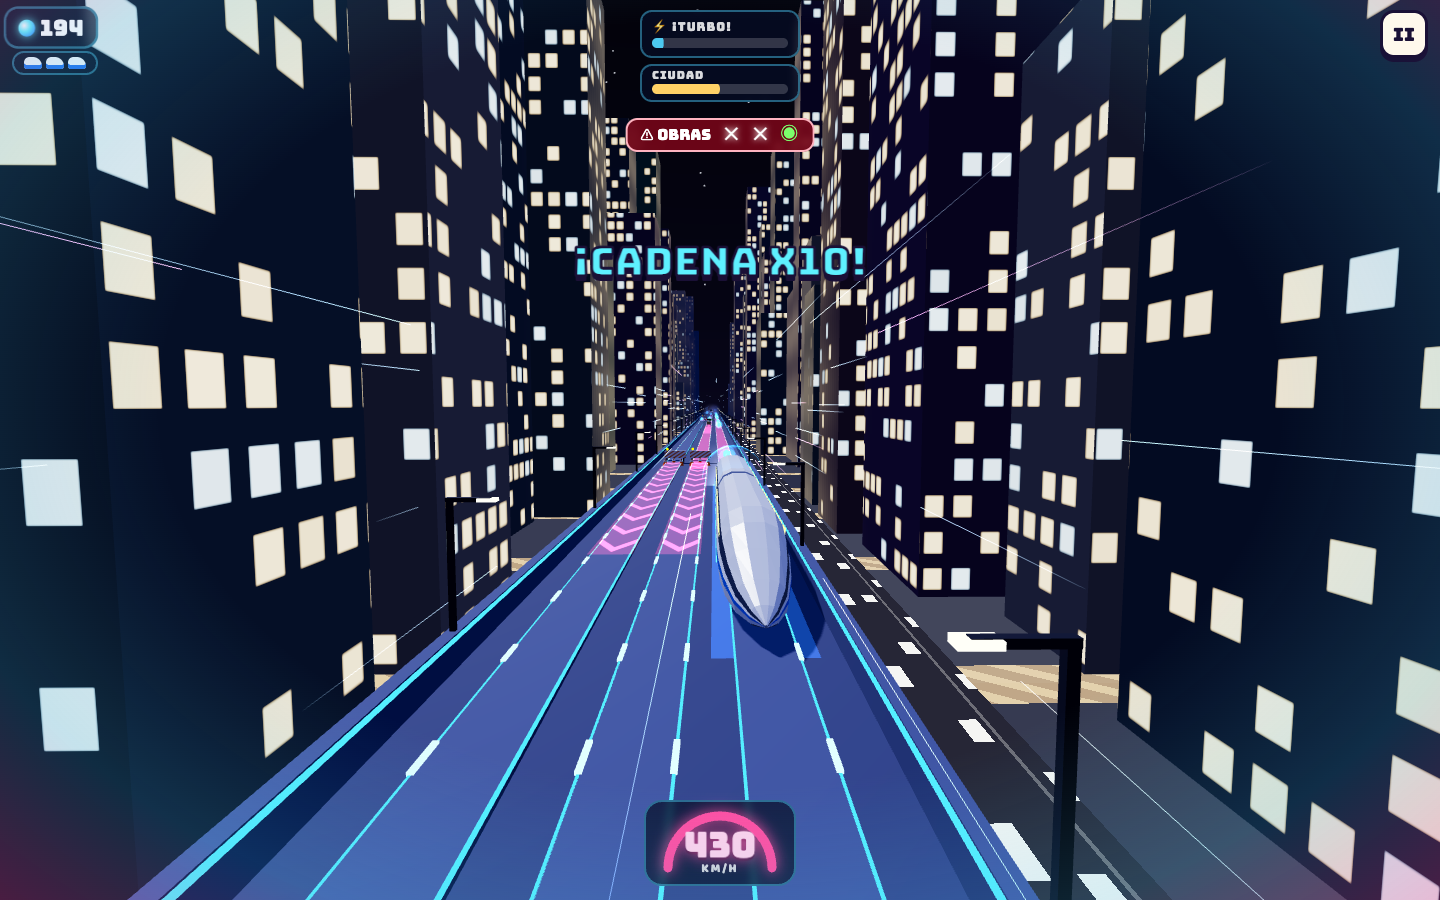
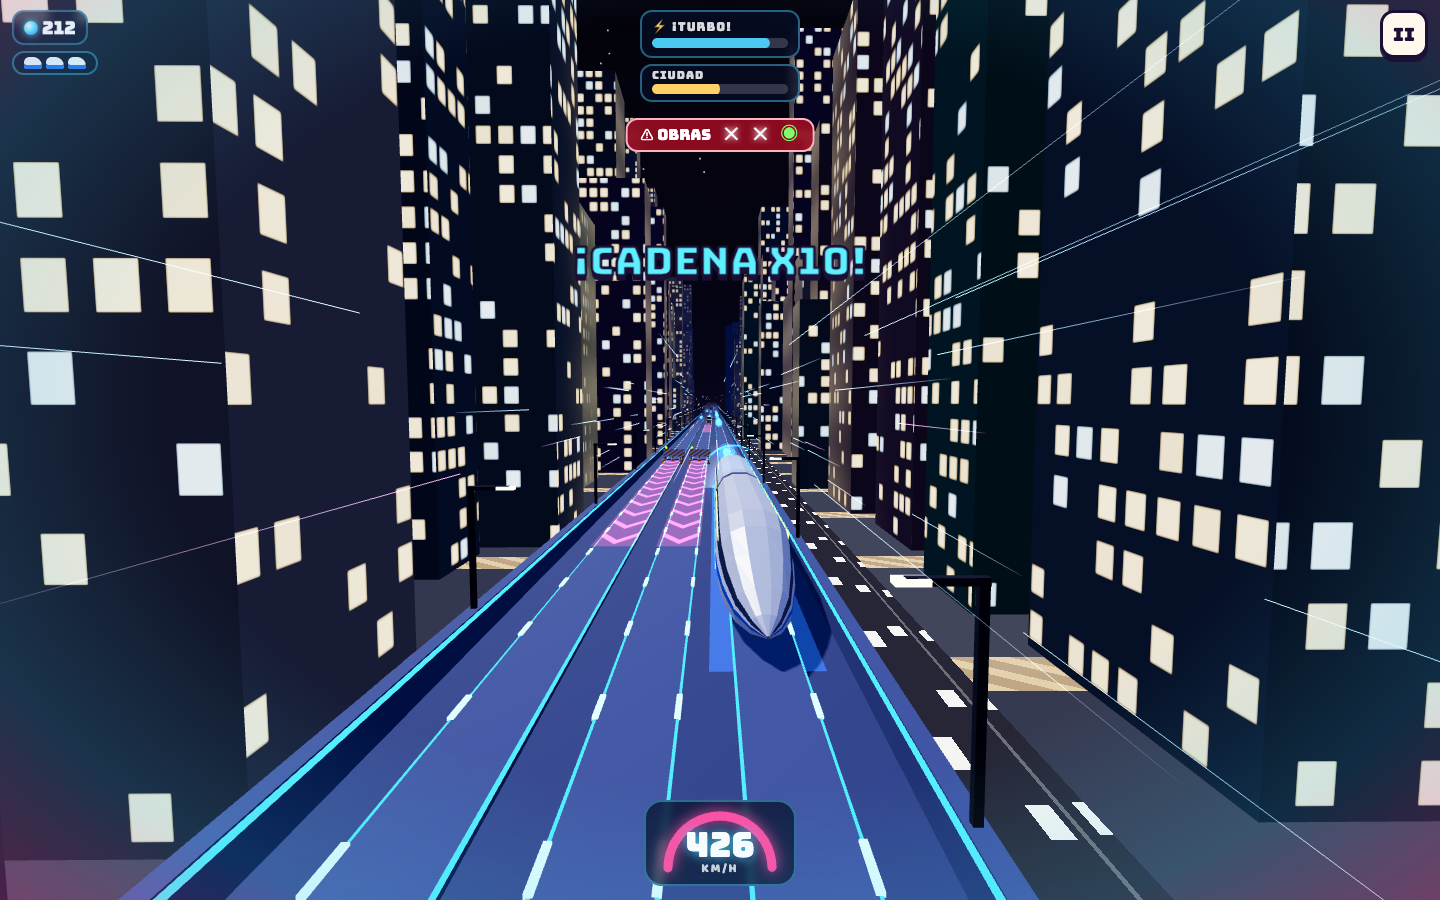
Shanghái ronda 2: doble cambio, último tramo con orbes dorados, turbo discreto y puntuación normalizada

diff --git a/src/stages/shanghai/index.js b/src/stages/shanghai/index.js
@@ -13,7 +13,7 @@ import { makeHum } from './sonido.js';
 
 const KMH = 6;                 // 1 m/s del juego = 6 km/h en el velocímetro
 const BRAKE_AT = Z.L - 220;    // aquí empieza a frenar solo en la estación
-const ORB_E = 1 / 18;          // energía por orbe
+const ORB_E = 1 / 26;          // energía por orbe
 const TRAMOS = [[0, 'CAMPO'], [Z.CITY, 'CIUDAD'], [Z.RIVER, 'RÍO'], [Z.BUND - 100, 'EL BUND']];
 const NOMBRE = { tren: '¡TREN DE FRENTE!', obras: 'OBRAS', puerta: 'PUERTA', dron: 'DRON' };
 
@@ -33,7 +33,7 @@ export default {
     { who: 0, text: '¡430 km/h! Este tren va más rápido que el wifi del hostal.' },
     { who: 1, text: 'Los fuegos del Bund empiezan en dos minutos. Ni uno más, {0}.' },
     { who: 'Maquinista Wei', text: 'Si viene un mercancías de frente, cambiad de vía. Yo lo hago siempre.' },
-    { who: 'Maquinista Wei', text: 'Coged energía azul y pulsad TURBO: el escudo aguanta los golpes.' },
+    { who: 'Maquinista Wei', text: 'Coged energía azul y pulsad TURBO: el escudo aguanta un golpe.' },
     { who: 0, text: '¿Y si chocamos?' },
     { who: 'Maquinista Wei', text: 'Frenazo en seco. Tres frenazos y los fuegos los veis por la tele.' },
   ],
@@ -94,6 +94,7 @@ export default {
     const etapa = { id: 'shanghai' };
     window.__ruta = window.__ruta || {};
     window.__ruta.etapa = etapa;
+    window.__ruta.shPlan = () => ({ hazards: hazards.map((h) => ({ t: h.type, s: h.s, l: h.lanes, len: h.len })), orbs: orbs.map((o) => ({ s: o.s, l: o.lane, v: o.v })) });
 
     // cámara de la intro: delante del morro, mirando a la cabina
     camera.position.set(6, DECK + 3, -10);
@@ -196,10 +197,10 @@ export default {
     function collect(o) {
       o.got = true; st.orbs += o.v;
       if (o.gold) ctx.hud.pop('orbes');
-      st.energy = Math.min(1, st.energy + (st.turbo ? ORB_E * 0.5 : ORB_E));
+      if (!st.turbo) st.energy = Math.min(1, st.energy + ORB_E);
       st.combo = st.t - st.comboT < 0.7 ? st.combo + 1 : 1; st.comboT = st.t;
       audio.sfx('coin', { pitch: (o.gold ? 1.3 : 1) + Math.min(14, st.combo) * 0.05, vol: o.gold ? 0.8 : 0.55 });
-      sparks.emit(10, tmpV.set(LANES[o.lane], DECK + 1.7, -o.s), { colors: ['#5ef0ff', '#ffffff', '#2fa8ff'], vel: { x: 0, y: 2, z: -st.v * 0.85 }, velSpread: 5, life: 0.5, gravity: 0, size: 0.4 });
+      sparks.emit(10, tmpV.set(LANES[o.lane], DECK + 1.7, -o.s), { colors: o.gold ? ['#ffd166', '#ffffff', '#ffb000'] : ['#5ef0ff', '#ffffff', '#2fa8ff'], vel: { x: (st.x - LANES[o.lane]) * 7, y: 2, z: -st.v * 0.92 }, velSpread: 4, life: 0.5, gravity: 0, size: 0.4 });
       ctx.hud.pop('orbes');
       if (st.combo >= 10 && st.combo % 10 === 0) ctx.shout(`¡CADENA x${st.combo}!`, { size: 'peque', color: '#5ef0ff', ms: 800 });
       if (st.energy >= 0.999 && !warnedFull && !st.turbo) { warnedFull = true; if (tipsShown++ < 2) showEnergyTip(); audio.sfx('star'); }
@@ -352,6 +353,7 @@ export default {
       if (ti === 2 && st.s > Z.BUND - 700 && !fw.show) { const fc = VIEW.at(285, 0); fw.setShow({ x: fc.x, z: fc.z, w: 150, d: 300, minH: 120, maxH: 230, rate: 0.35, scale: 1 }); }
       if (!st.ultimo2 && st.s >= ULTIMO) {
         st.ultimo2 = true; st.tramo = 'ÚLTIMO TRAMO';
+        if (st.danos > 0) { st.danos--; setTimeout(() => ctx.shout('🔧 ¡TREN REPARADO!', { size: 'peque', color: '#7cff6b', ms: 1200 }), 3800); }
         ctx.shout('¡ÚLTIMO TRAMO!', { color: '#ffd166', ms: 1800 });
         ctx.hud.el.classList.add('sh-ultimo');
         audio.sfx('horn', { pitch: 1.2 }); audio.sfx('bell'); engine.shake(0.3); hud.flash('rgba(255,209,102,.35)');

diff --git a/src/stages/shanghai/peligros.js b/src/stages/shanghai/peligros.js
@@ -30,9 +30,9 @@ export function generar(rng) {
     if (zone === 2 && !doneGates && s >= CLIMAX_PUERTAS) {
       // clímax 2: puertas en zigzag
       doneGates = true;
-      const open = rng.chance(0.5) ? [0, 2, 0] : [2, 0, 2];
-      open.forEach((o, i) => { H('puerta', s + i * 100, others(o), i === 0 ? { anuncio: '¡PUERTAS EN ZIGZAG!' } : {}); for (let k = 1; k <= 3; k++) orbs.push({ s: s + i * 100 - k * 8, lane: o }); });
-      prevFree = open[2]; s += 2 * 100 + 110; n++; continue;
+      const open = rng.pick([[0, 1, 2], [2, 1, 0], [1, 0, 1], [1, 2, 1]]);
+      open.forEach((o, i) => { H('puerta', s + i * 130, others(o), i === 0 ? { anuncio: '¡PUERTAS EN ZIGZAG!' } : {}); for (let k = 1; k <= 3; k++) orbs.push({ s: s + i * 130 - k * 8, lane: o }); });
+      prevFree = open[2]; s += 2 * 130 + 110; n++; continue;
     }
     let types = zone === 0 ? (s < 800 ? ['obras', 'dron'] : ['obras', 'dron', 'tren', 'obras', 'dron'])
       : zone === 1 ? ['obras2', 'combo', 'tren', 'puerta', 'dron', 'combo', 'trenobras']
@@ -48,8 +48,8 @@ export function generar(rng) {
     else if (type === 'cadena') {
       // obras en el centro y otro lateral; 55 m detrás, un mercancías por el lateral libre: dos cambios seguidos
       const L = rng.pick([0, 2]); blocked = others(L);
-      H('obras', s, blocked, cadenaN++ === 0 ? { anuncio: '¡DOBLE CAMBIO!' } : {}); H('tren', s + 55, [L]);
-      trainLen = 55 + FREIGHT_LEN; cadena = true;
+      H('obras', s, blocked, cadenaN++ === 0 ? { anuncio: '¡DOBLE CAMBIO!' } : {}); H('tren', s + 45, [L]);
+      trainLen = 45 + FREIGHT_LEN; cadena = true;
       for (let k = 2; k <= 5; k++) orbs.push({ s: s + k * 9, lane: 1 });
     }
     else if (type === 'trenobras') { const o = rng.int(0, 2); blocked = others(o); const [a, b2] = rng.chance(0.5) ? blocked : [blocked[1], blocked[0]]; H('tren', s, [a]); H('obras', s, [b2]); trainLen = FREIGHT_LEN; }
@@ -58,7 +58,7 @@ export function generar(rng) {
     const guide = free.reduce((a2, b2) => (Math.abs(b2 - prevFree) < Math.abs(a2 - prevFree) ? b2 : a2));
     for (let k = 4; k >= 1; k--) orbs.push({ s: s - k * 7, lane: guide });
     if (trainLen && !cadena) for (let k = 1; k <= 3; k++) orbs.push({ s: s + k * 9, lane: guide });
-    gap = zone === 0 ? rng.range(150, 195) : zone === 1 ? rng.range(108, 142) : s >= ULTIMO ? rng.range(82, 104) : rng.range(96, 126);
+    gap = zone === 0 ? rng.range(150, 195) : zone === 1 ? rng.range(108, 142) : s >= ULTIMO ? rng.range(74, 94) : rng.range(96, 126);
     gap += trainLen;
     // cadena de orbes en el hueco hasta el siguiente: recta o en zigzag
     const from = s + (trainLen ? trainLen + 26 : 24), to = s + gap - 40;
